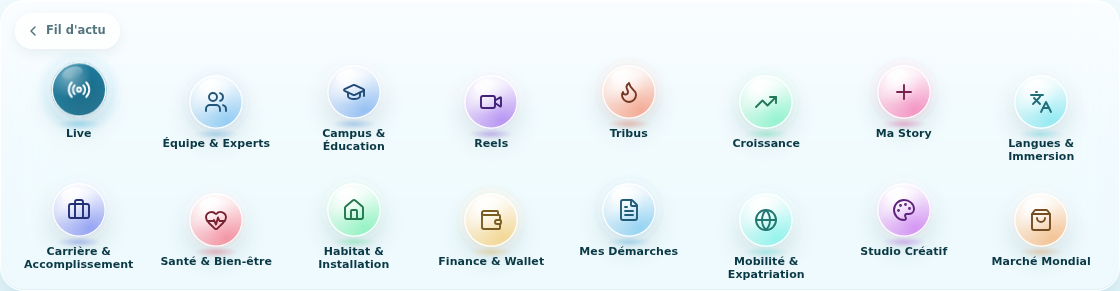
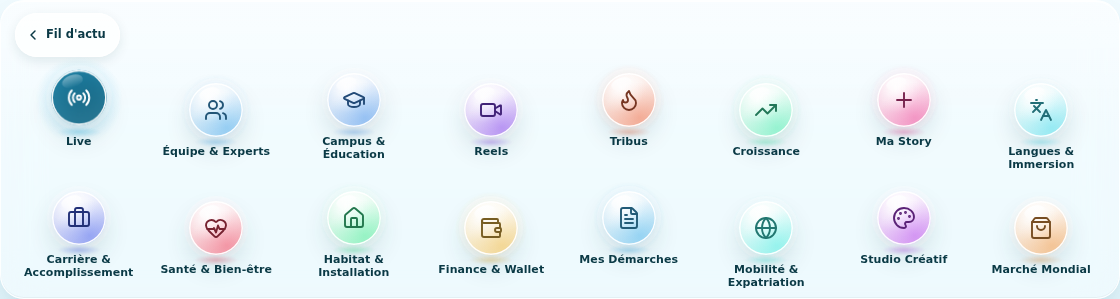
fix(reseau): bande « Aurore » — retouches de la contre-vérification (cible de 44 px, orbe active sans reflet radial, retour au-dessus du voile)
- « Fil d'actu » : min-height 44 px (règle projet), position relative +
  vertical-align top pour se peindre au-dessus du voile spéculaire de la
  carte comme les orbes ;
- orbe active : reflet radial blanc retiré, l'icône blanche tient 3:1 au
  moins sous toute sa surface (Croissance 3,4 ; Live 4,6, mesures du
  contrôle indépendant).

tsc 0 · vitest 1104/1104 · build OK · captures de l'état actif refaites.

Claude-Session: https://claude.ai/code/session_01En8bhZ3GESAPgwVuFkRuu9

diff --git a/index.html b/index.html
@@ -2002,12 +2002,14 @@
          grille — les seize orbes restent seize, le damier ne bouge pas.
          Rendu seulement quand on a quitte le fil. */
       .aurore-retour {
+        position: relative;
+        vertical-align: top;
         display: inline-flex;
         align-items: center;
         gap: 5px;
         margin: 2px 0 0 2px;
         padding: 8px 14px 8px 10px;
-        min-height: 36px;
+        min-height: 44px;
         border: 0;
         border-radius: 999px;
         background: rgba(255,255,255,.72);
@@ -2115,13 +2117,13 @@
         transition: transform .3s, filter .3s;
       }
       /* orbe de la section courante : remplie de sa teinte, icone blanche.
-         Clartes 38 % -> 28 % et reflets attenues pour garder l'icone a
-         3:1 au moins, meme sur les teintes claires (vert 158, aqua 196). */
+         Clartes 38 % -> 28 %, sans reflet radial (seul le petit reflet
+         ::after reste, attenue) : l'icone tient 3:1 au moins sous toute sa
+         surface, meme sur les teintes claires (vert 158 : 3,4 ; aqua 196 :
+         4,6, mesure par le controle independant). */
       .aurore-orbe[aria-current="page"] .aurore-bulle {
         color: #fff;
-        background:
-          radial-gradient(circle at 32% 26%, rgba(255,255,255,.4), rgba(255,255,255,0) 40%),
-          linear-gradient(160deg, hsl(var(--h, 196) 70% 38%), hsl(var(--h, 196) 65% 28%));
+        background: linear-gradient(160deg, hsl(var(--h, 196) 70% 38%), hsl(var(--h, 196) 65% 28%));
       }
       .aurore-orbe[aria-current="page"] .aurore-bulle::after { opacity: .4; }
       .aurore-libelle,
